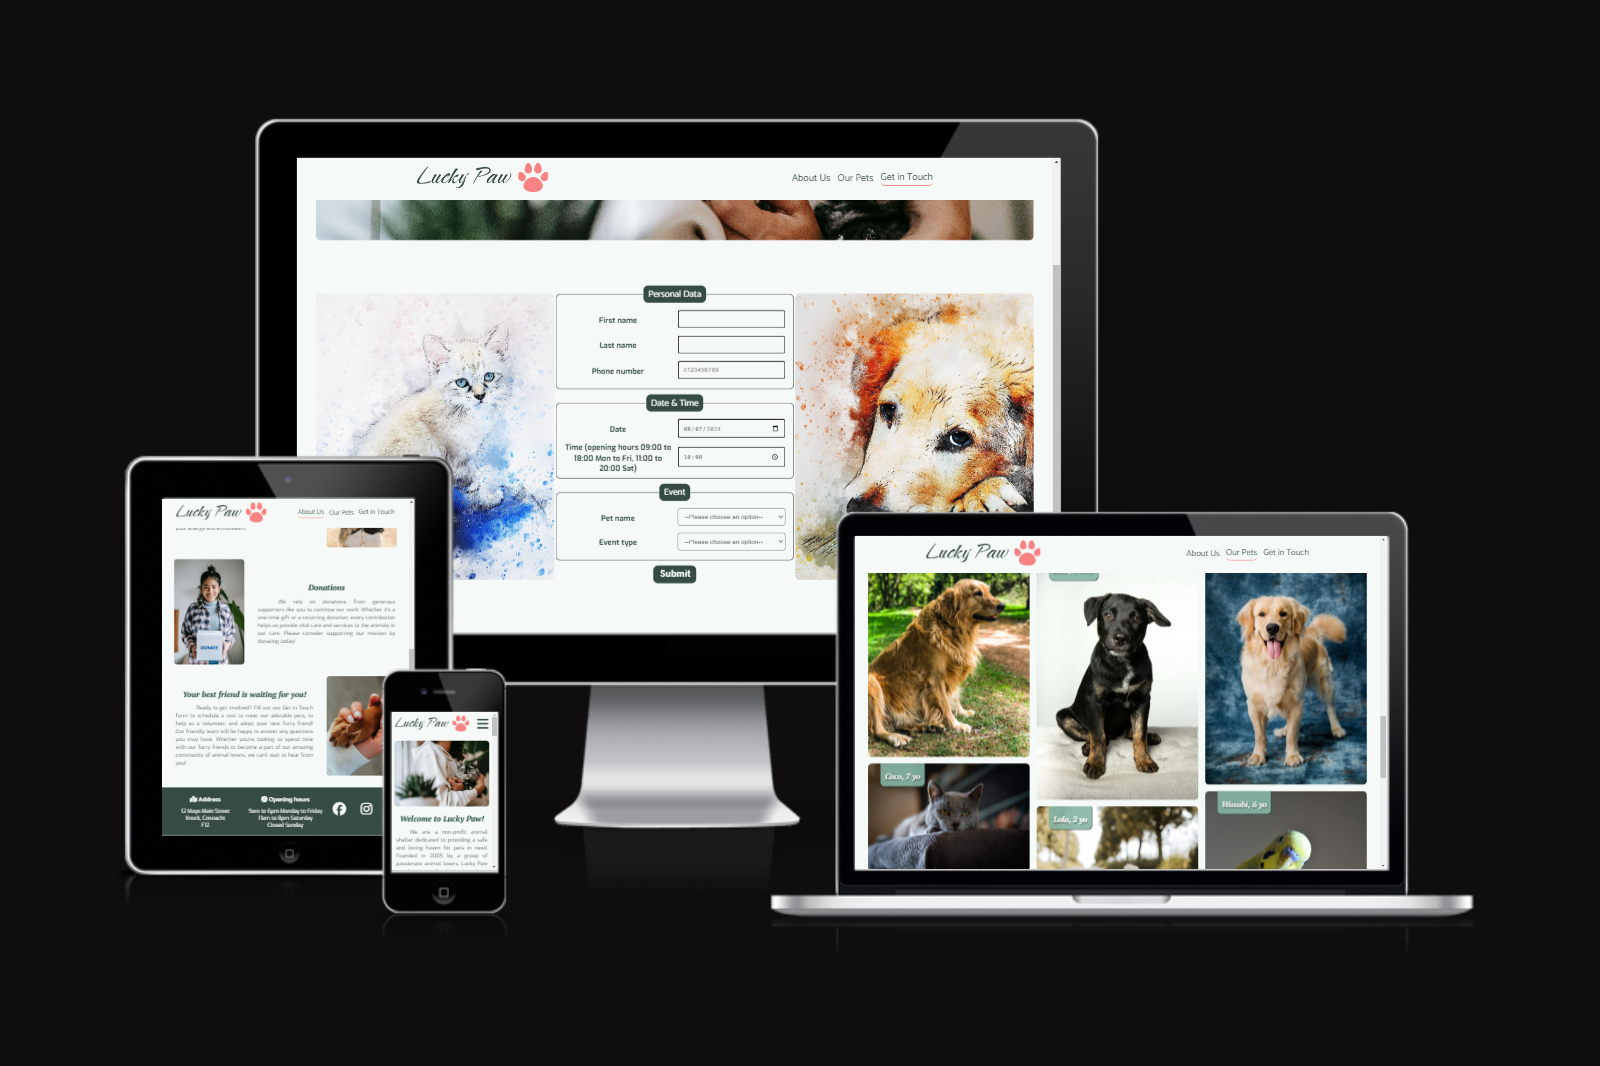
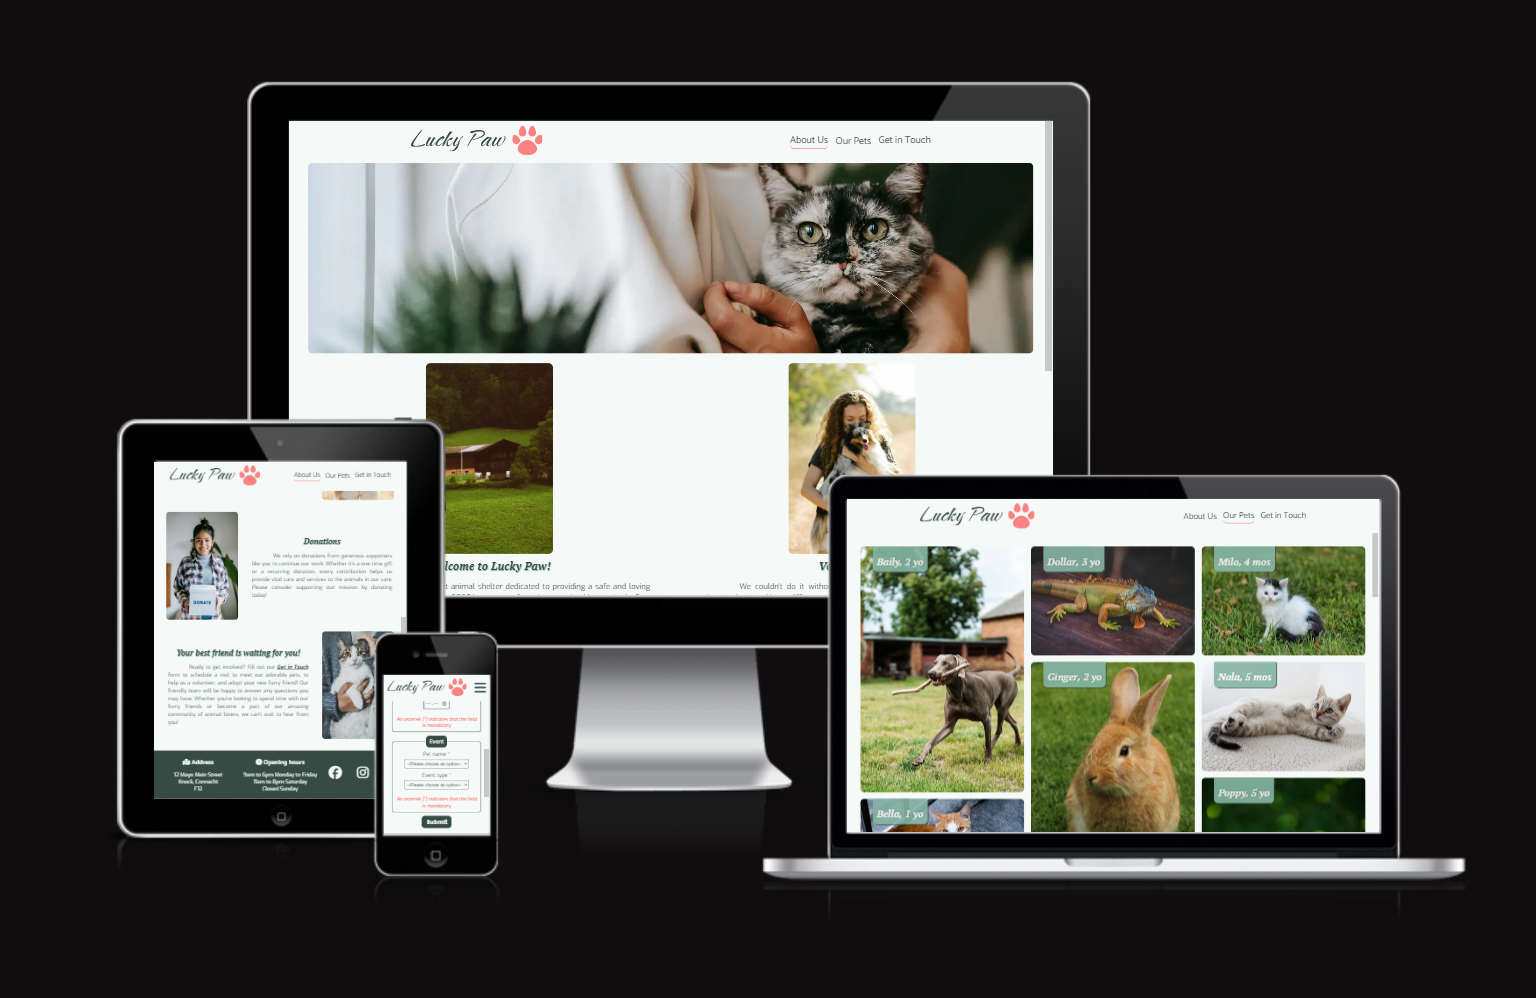
Update Readme, replace screenshots with updated version of the website

diff --git a/README.md b/README.md
@@ -79,7 +79,7 @@ The website has four pages. Each page has a heading with logo and navigation bar
 - ### Home page 
 
 ![Home page](./README-images/home_page.png)
- #### It contains of four images, each having a heading and paragraph. The images are supporting the content of the paragraph, increasing its effect. The layout of the images and text are chaning depending on the device (mobile, tablet, desktop).
+ #### It contains of four images, each having a heading and paragraph. The images are supporting the content of the paragraph, increasing its effect. The layout of the images and text are chaning depending on the device (mobile, tablet, desktop). In the last paragraph, there is an embedded link that takes the user to the contact page.
 
 - ### Gallery page 
 
@@ -89,7 +89,7 @@ The website has four pages. Each page has a heading with logo and navigation bar
 - ### Contact page / Form
 
 ![Contact page](./README-images/contact_page.png)
- #### This is the place where the user can schedule the visit to the center. 
+ #### This is the place where the user can schedule the visit to the center. Mandatory fields are marked for the user's convenience. 
  - The general information about the user is required such as name and phone number for contact in case of any changes. The phone number input does not allow to enter letters or more digits than neccessary.
  - The calendar and time parts are provided to eliminate the need to type that information manually. The calendar is set to only allow the user to choose dates from 24.06.2024 to 31.12.2024 and time from 9 am to 8 pm. 
  - The event type is the reason for the visit and there is also a list of pets' names, so that the user can specify who is to be visited/adopted. 
@@ -105,10 +105,10 @@ The website has four pages. Each page has a heading with logo and navigation bar
 - News section/page
 - Reviews section/page with visitors' reviews or/and pictures.
 - The actual Gallery with photos of events or daily life of the pets.
-- The button at the bottom of the home page and/or gallery page which leads the user straight to contact page if the user wants to fill the form right away.
+- The button at the bottom of the gallery page which leads the user straight to contact page if the user wants to fill the form right away.
 - Dark Mode toggle
 
-## Testing 
+## Testing  
 
 ### Responsiveness
 The website was developed from mobile (320px) to desktop (2000px) and was adapted to fit almost all screens. 
